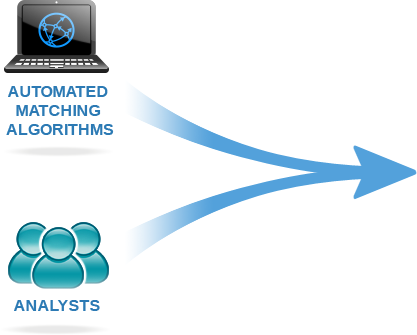
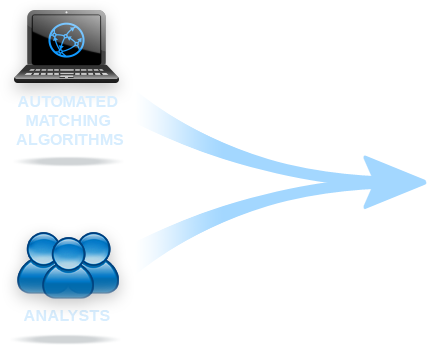
swap out images in the slider

diff --git a/index.html b/index.html
@@ -103,8 +103,8 @@
             </div>
         </article>
         <article class="slide" id="tour" style="background: url('img/background_blue.png') repeat-x top center;">
-            <img class="asset left-200 sp650 t160 z3" src="img/slide_2_1.png" />
-            <img class="asset left-565 sp600 t320 z4" src="img/slide_2_2.png" />
+            <img class="asset left-200 sp600 t160 z3" src="img/slide_2_1.png" />
+            <img class="asset left-565 sp400 t190 z4" src="img/slide_2_2.png" />
             <div class="info">
                 <h1>Marketing Ready CRM</h1>
                 <h3>LeanData delivers the data accuracy needed to lift conversions, track ROI and deliver true lifecycle marketing.</h3>
@@ -112,8 +112,8 @@
             </div>
         </article>
         <article class="slide" id="responsive" style="background: url('img/background_blue.png') repeat-x top center;">
-            <img class="asset left-472 sp600 t180 z3" src="img/slide_3_1.png" />
-            <img class="asset left-30 sp400 t260 z2" src="img/slide_3_2.png" />
+            <img class="asset left-472 sp200 t180 z3" src="img/slide_3_1.png" />
+            <img class="asset left-30 sp600 t260 z2" src="img/slide_3_2.png" />
             <div class="info">
                 <h1>Highest Quality</h1>
                 <h3>LeanData creates superior quality by combining human judgment with machine intelligence.</h3>
